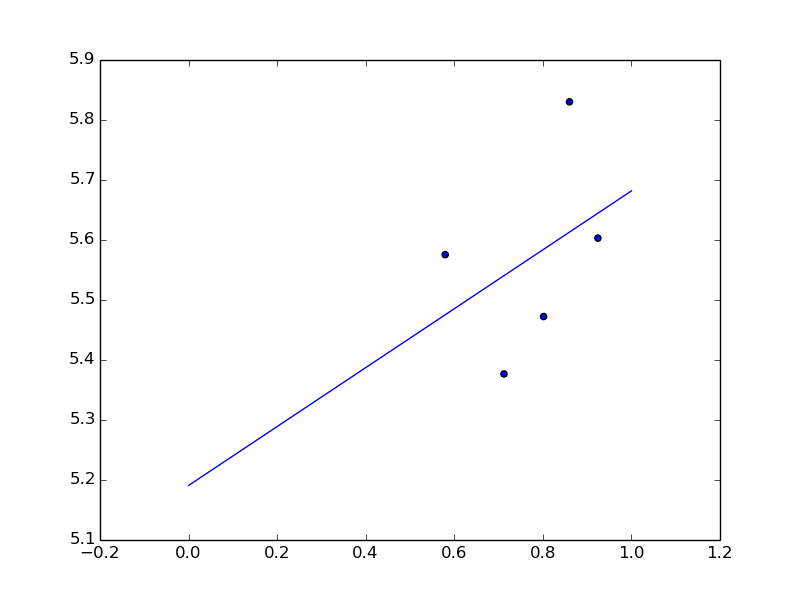
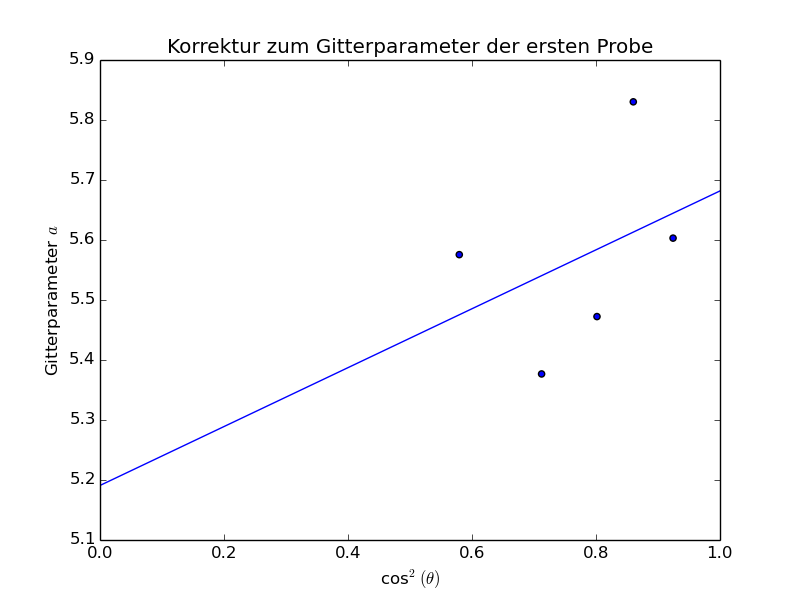
auswertung fertig

diff --git a/02Debye_Scherrer/tex/protokoll.tex b/02Debye_Scherrer/tex/protokoll.tex
@@ -134,50 +134,50 @@ $s^\text{theo}_i$ mit
  s^\text{theo}_i = h_i^2 + k_i^2 + l_i^2
  \label{eq:structTheo}
 \end{align}
-bezeichnet, wobei die Millerindizes zum $i$-ten Reflex gehören. Damit kann man bereits den Gitterparameter $a$ berechnen als
+bezeichnet, wobei die Millerindizes (MI) zum $i$-ten Reflex gehören. Damit kann man bereits den Gitterparameter $a$ berechnen als
 \begin{align}
  a_i = \lambda\frac{\sqrt{s^\text{theo}_i}}{2\sin(\theta)}.
  \label{eq:gitterparameter}
 \end{align}
-Die bisher angesprochenen Größen sind in den Tabellen \ref{tab:messreihe1} und \ref{tab:messreihe2} zu finden.
+mit $\lambda=154$ nm als Wellenlänge der Röntgenstrahlen. Die bisher angesprochenen Größen sind in den Tabellen \ref{tab:messreihe1} und \ref{tab:messreihe2} zu finden.
 
 \begin{table}[H]
- \begin{tabular}{c|c|c|c|c}
- r1	&theta&	sexp&	stheo&	a\\
+ \begin{tabular}{cccccc}
+$r$ in mm&	$\theta$ in $\pi$& $s^\text{exp}$& $s^\text{theo}$ & MI &$a$ in $\mathring{A}$\\
  \hline
-32.0&	0.56&	4.0&	4&	2.91\\
-44.0&	0.77&	7.39&	8&	3.14\\
-53.0&	0.92&	10.48&	10&	3.06\\
-65.0&	1.13&	15.2&	14&	3.19\\
-81.0&	1.41&	22.22&	22&	3.66
+32.0&	0.28&	4.00&	4&	200&	5.6\\
+44.0&	0.38&	7.39&	8&	220&	5.83\\
+53.0&	0.46&	10.48&	10&	310&	5.47\\
+65.0&	0.57&	15.20&	14&	321&	5.38\\
+81.0&	0.71&	22.22&	22&	332&	5.58 \\
   
  \end{tabular}
- \caption{Messwerte 1}
+ \caption{Messwerte zur ersten Probe}
  \label{tab:messreihe1}
 
 \end{table}
 
 \begin{table}[H]
- \begin{tabular}{c|c|c|c|c}
-r2&	theta&	sexp&	stheo&	a\\
+ \begin{tabular}{cccccc}
+$r$ in mm&	$\theta$ in $\pi$& $s^\text{exp}$& $s^\text{theo}$ & MI &$a$ in $\mathring{A}$\\
 \hline
-31.0&	0.54&	4.0&	4&	3.0\\
-38.0&	0.66&	5.94&	6&	3.07\\
-44.0&	0.77&	7.86&	8&	3.14\\
-51.0&	0.89&	10.38&	10&	3.14\\
-65.0&	1.13&	16.17&	16&	3.41\\
-69.0&	1.2&	17.98&	18&	3.51\\
-74.0&	1.29&	20.29&	20&	3.59\\
-102.33&	1.78&	34.02&	34&	4.6\\
-106.33&	1.85&	35.91&	36&	4.81\\
-115.33&	2.01&	40.03&	40&	5.38\\
-119.33&	2.08&	41.78&	42&	5.72\\
-124.33&	2.17&	43.86&	44&	6.18\\
-134.33&	2.34&	47.66&	48&	7.43\\
-146.33&	2.55&	51.42&	51&	9.86\\
+31.0&	0.27&	4.00&	4&	200&	5.78\\
+38.0&	0.33&	5.94&	6&	211&	5.81\\
+44.0&	0.38&	7.86&	8&	220&	5.83\\
+51.0&	0.44&	10.38&	10&	310&	5.67\\
+65.0&	0.57&	16.17&	16&	400&	5.75\\
+69.0&	0.60&	17.98&	18&	330&	5.78\\
+74.0&	0.64&	20.29&	20&	420&	5.74\\
+102.33&	0.89&	34.02&	34&	530&	5.78\\
+106.33&	0.93&	35.91&	36&	600&	5.79\\
+115.33&	1.00&	40.03&	40&	620&	5.78\\
+119.33&	1.04&	41.78&	42&	541&	5.79\\
+124.33&	1.08&	43.86&	44&	622&	5.79\\
+134.33&	1.17&	47.66&	48&	444&	5.80\\
+146.33&	1.27&	51.42&	51&	551&	5.76\\
   
  \end{tabular}
- \caption{Messwerte 2}
+ \caption{Messwerte zur zweiten Probe}
  \label{tab:messreihe2}
 
 \end{table}
@@ -189,27 +189,79 @@ Es zeigt sich, dass bei der Apparatur der Fehler $\Delta a$ näherungsweise von 
 linearer Regression wird $a$ bei $\theta = 90^\circ$, also $\cos^2(\theta)=0$, als bester Wert angenommen (vgl. Abb. \ref{pic:fita1}, \ref{pic:fita2}). 
 
 \begin{align}
- a_1 = 351,2 pm\\
- a_2 = 423,8 pm
+ a_1 &= (519 \pm 52)\, \text{pm} \\
+ \nonumber
+ a_2 &= (578 \pm 2)\, \text{pm} 
+ \label{eq:latticeResults}
 \end{align}
 
+\noindent
 
-\begin{figure}
- \includegraphics[width=\textwidth]{../auswertung/a1.png}
- \caption{fit a1}
+
+
+
+\section{Diskussion}
+Das Debye-Scherrer Verfahren zur Bestimmung von Gitterparametern von kristallinen Stoffen ist sehr intuitiv und führt zu vernünftigen Resultaten, sodass
+zur Probenbestimmung einige Kandidaten infrage kommen. Bei der Durchführung ist bekannt, dass ein Material ein Salz und das andere ein Metall ist. 
+
+\noindent Anhand der Millerindizes für die erste Probe (vgl. Tabelle \ref{tab:messreihe1}) ergibt sich eine vermeintliche bcc-Struktur ($h+k+l$ ist gerade), 
+die ähnlichzur NaCl-Struktur ist. Materialien mit einem Gitterparameter von $a_1 = 519 \pm 52$, die eine solche aufweisen, sind in Tabelle \ref{tab:matProb1} 
+aufgeführt.
+
+\begin{table}[H]
+ \begin{tabular}{cc}
+Material &$a$ in pm\\
+\hline
+MgS& 520\\
+BaO & 554\\
+SrO & 516\\
+LiBr & 550\\
+KF & 534
+  
+ \end{tabular}
+ \caption{Kandidaten für die erste Probe mit NaCl-Struktur}
+ \label{tab:matProb1}
+
+\end{table}
+\noindent Magnesiumsulfid hat jedoch einen nahezu perfekten Gitterparameter, jedoch ist die typische Farbe (rötlich) nicht mit der Probenfarbe gleich (weiß). 
+Bariumoxid und Lithiumbromid sind zwar im Bereich des Messfehlers, aber eher im äußeren Teil. Daher handelt es sich vermutlich um Strontiumoxid oder
+Kaliumflourid.
+
+\noindent
+Die Millerindizes der zweiten Probe (vgl. Tabelle \ref{tab:messreihe2}) sprechen für eine fcc-Struktur ($hkl$ alle gerade oder ungerade).
+Für die fcc-Struktur, die vermutlich ein Metall aufweist, sind die Elemente des Periodensystems verglichen worden und die wahrscheinlichsten sind in 
+Tabelle \ref{tab:matProb2} aufgeführt.
+
+\begin{table}[H]
+ \begin{tabular}{cc}
+Material &$a$ in pm\\
+\hline
+Yb& 548\\
+Sr & 608\\
+Ge & 565\\
+  
+ \end{tabular}
+ \caption{Kandidaten für die zweite Probe mit fcc-Struktur}
+ \label{tab:matProb2}
+
+\end{table}
+\noindent Dass keines der genannten Stoffe im Fehlerbereich von $a_2$ liegt, sind zwei Ursachen denkbar. Zum einen kann es sich um einen Stoff halten, der nicht
+rein aus einem Metall des Periodensystems besteht oder die fehlerhafte Abmessung der Debye-Scherrer-Ringe, die mit einem Geodreieck durchgeführt worden ist
+sorgt für einschlägige Unterschiede für den Gitterparameter. Da es Unmengen an Legierungen gibt und verhältnismäßig wenig Literaturwerte über deren
+Gitterkonstanten, ist darauf verzichtet worden, Kandidaten in diesem Feld zu suchen. Es ist zusätzlich möglich, dass auf den Fotostreifen, speziell
+der zweiten Probe, Reflexe fehlinterpretiert mitaufgenommen oder nicht mitaufgenommen worden sind, was auf den geringen Konstrast zurückgeführt werden kann.
+
+\begin{figure}[n]
+ \includegraphics[width=0.7\textwidth]{../auswertung/a1.png}
+ \caption{Korrigierter Wert für $a_1$ der Messreihe 1 bei $\cos(\theta)=0$}
  \label{pic:fita1}
 \end{figure}
 
-\begin{figure}
- \includegraphics[width=\textwidth]{../auswertung/a2.png}
- \caption{fit a2}
+\begin{figure}[hb]
+ \includegraphics[width=0.7\textwidth]{../auswertung/a2.png}
+ \caption{Korrigierter Wert für $a_2$ der Messreihe 2 bei $\cos(\theta)=0$}
  \label{pic:fita2}
 \end{figure}
-
-bestimmung der proben steht noch aus
-
-
-
 
 
 

diff --git a/02Debye_Scherrer/auswertung/debye2.py b/02Debye_Scherrer/auswertung/debye2.py
@@ -4,6 +4,14 @@ import numpy as np
 from scipy import stats
 import matplotlib.pylab as plt
 import matplotlib as mpl
+from matplotlib import rc
+from scipy import optimize, interpolate, misc, constants
+import os
+import sys
+import re
+import scipy.optimize as optimization
+import math
+import matplotlib.cm as cm
 
 def sortArrayUpways(arr):
 	n = len(arr)
@@ -32,8 +40,8 @@ r21_mess = np.pi*R-r21_mess #möglicherweise geshiftet um viertel Umfang
 r22_mess = np.array([31.0,38.0,44.0,51.0,65.0,69.0,74.0])
 r2_mess = np.concatenate([r21_mess, r22_mess])
 sortArrayUpways(r2_mess)
-print(r1_mess)
-print(r2_mess)
+print("r1: ",r1_mess)
+print("r2: ",r2_mess)
 
 
 #####Miller-Indizes
@@ -45,21 +53,23 @@ k2 = np.array([0,1,2,1,0,3,2,3,0,2,4,2,4,5])
 l2 = np.array([0,1,0,0,0,0,0,0,0,0,1,2,4,1])
 
 #####Winkel
-theta1 = r1_mess/(R)
+theta1 = r1_mess/(2*R)
 theta1_0 = theta1[0]
-theta2 = r2_mess/(R)
+theta2 = r2_mess/(2*R)
 theta2_0 = theta2[0]
-print(theta1)
+print("Winkel1: ",theta1)
 
 #####Strukturfaktoren
-s_exp1 = 4*(np.sin(theta1/2))**2/(np.sin(theta1_0/2))**2
+s_exp1 = 4*(np.sin(theta1))**2/(np.sin(theta1_0))**2
 s_theo1 = h1**2 + k1**2 + l1**2
 #1 = bcc
-s_exp2 = 4*(np.sin(theta2/2))**2/(np.sin(theta2_0/2))**2 #theta/2 laut V5-Gitterkonstantenbestimmung - sonst für theta>90 grad
+s_exp2 = 4*(np.sin(theta2))**2/(np.sin(theta2_0))**2 #theta/2 laut V5-Gitterkonstantenbestimmung - sonst für theta>90 grad
 s_theo2 = h2**2 + k2**2 + l2**2
 #2 = fcc
-print("se1: ", s_exp1)
-print("se2: ", s_exp2)
+print("se1(bcc): ", s_exp1)
+print("se2(fcc): ", s_exp2)
+print("st1: ", s_theo1)
+print("st2: ", s_theo2)
 
 #####Gitterkonstante
 d1 = lamda/(2*np.sin(theta1))
@@ -76,8 +86,8 @@ a2 = a2*10**7
 
 slope1, intercept1, r_value1, p_value1, std_err1 = stats.linregress(cosSquare1,a1)
 slope2, intercept2, r_value2, p_value2, std_err2 = stats.linregress(cosSquare2,a2)
-print(slope1, intercept1, r_value1, p_value1, std_err1)
-print(slope2, intercept2, r_value2, p_value2, std_err2)
+print("m1 = "+str(slope1), "b1 = "+str(intercept1), "MgS: 520 (falsche Farbe), BaO: 554, SrO: 516, LiBr: 550, KF: 534", r_value1, p_value1, std_err1)
+print("m2 = "+str(slope2), "b2 = "+str(intercept2), "Yb: 548, Sn: 583 (centerced tetragonal!), Sr: 608, Ge: 565" , r_value2, p_value2, std_err2)
 x = np.linspace(0,1,100)
 fit1 = slope1*x+intercept1
 fit2 = slope2*x+intercept2
@@ -100,12 +110,16 @@ for i in range(0,len(a2)):
 
 f.close()
 
-
+plt.plot(x,fit1)
+plt.xlim((0,1))
+plt.title("Korrektur zum Gitterparameter der ersten Probe")
+plt.xlabel(r"cos$^2 (\theta)$")
+plt.ylabel("Gitterparameter $a$")
+plt.legend(loc=2)
 #plt.plot(x,fit2)
-#ax.scatter(cosSquare2, a2)
-#plt.savefig("a2",dpi=100)
+ax.scatter(cosSquare1, a1)
+#plt.savefig("a1",dpi=100)
 
-#plt.plot(x,fit2)
 #ax.scatter(cosSquare2, a2)
 #plt.savefig("a2",dpi=100)
 #plt.show()

diff --git a/02Debye_Scherrer/auswertung/latticeconstants.py b/02Debye_Scherrer/auswertung/latticeconstants.py
@@ -10,7 +10,7 @@ def sortArrayUpways(arr):
 				arr[i] = temp
 
 lattice = list()
-indextriple = 42
+indextriple = 6
 maxindex = 7
 
 for h in range(0,maxindex+1):
